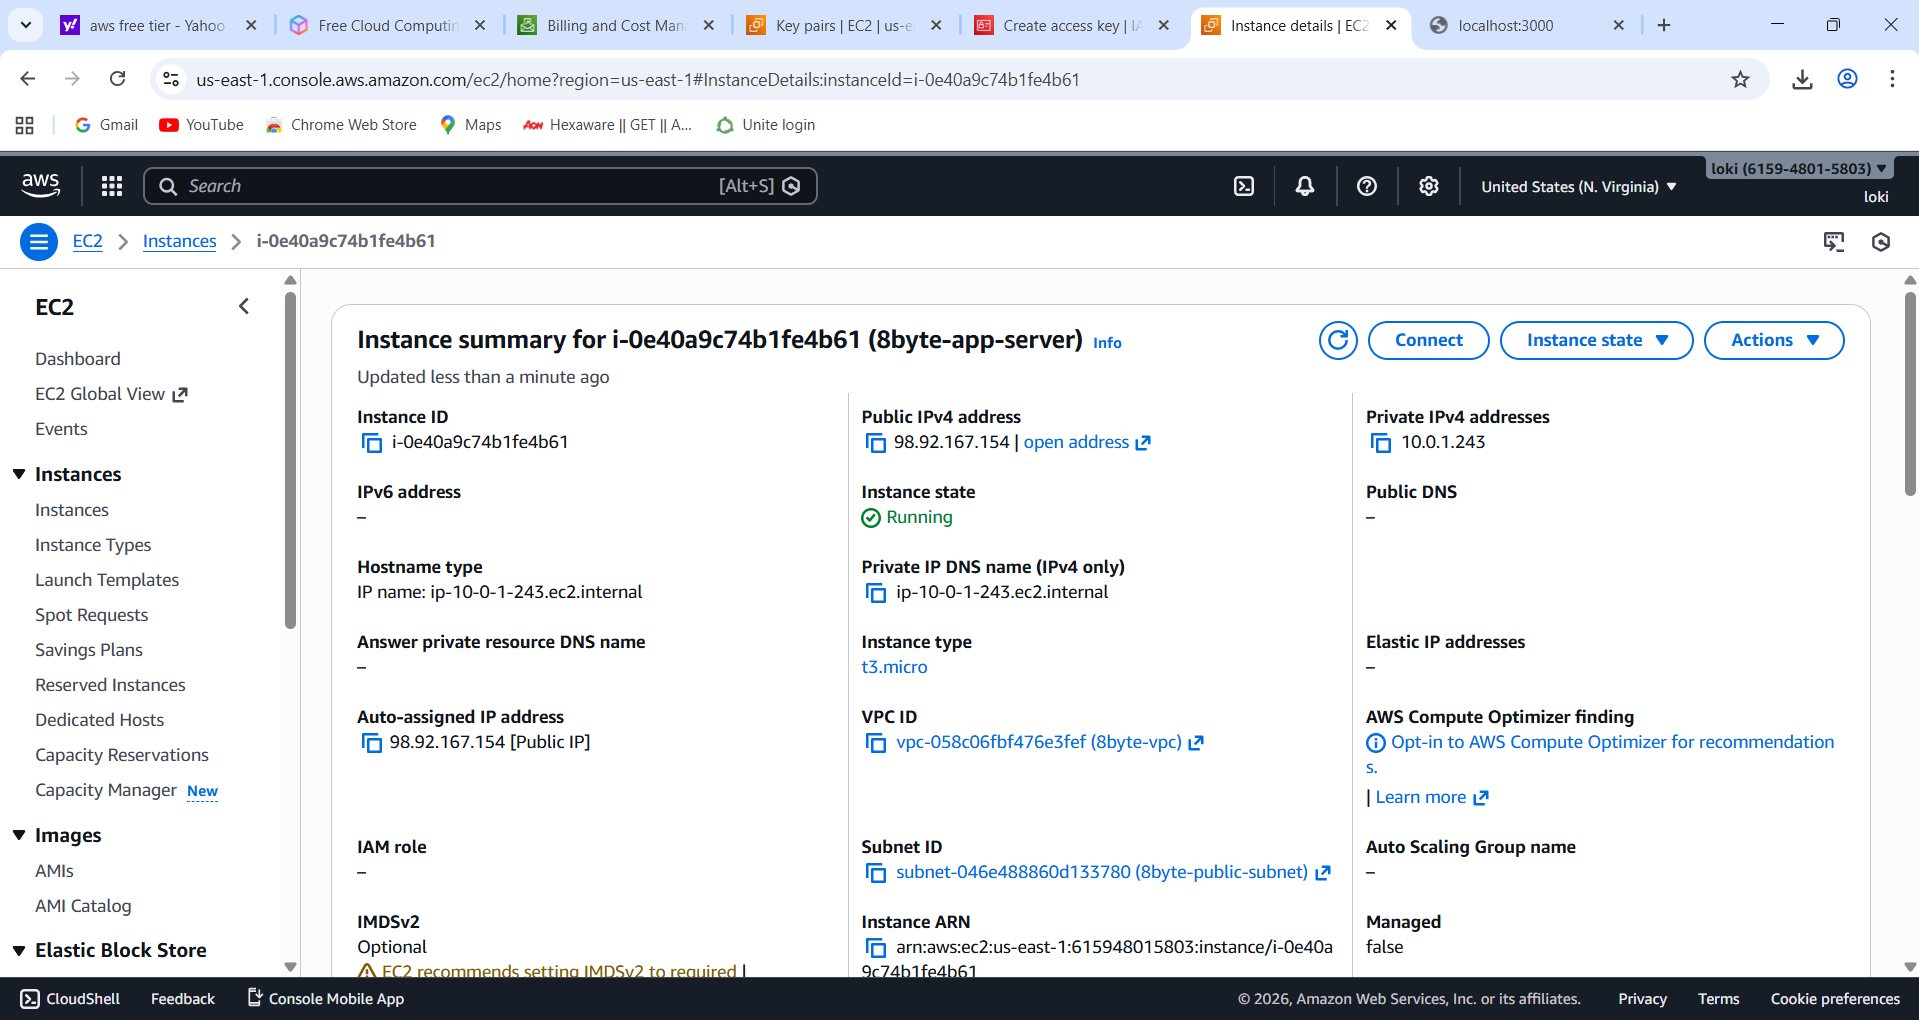
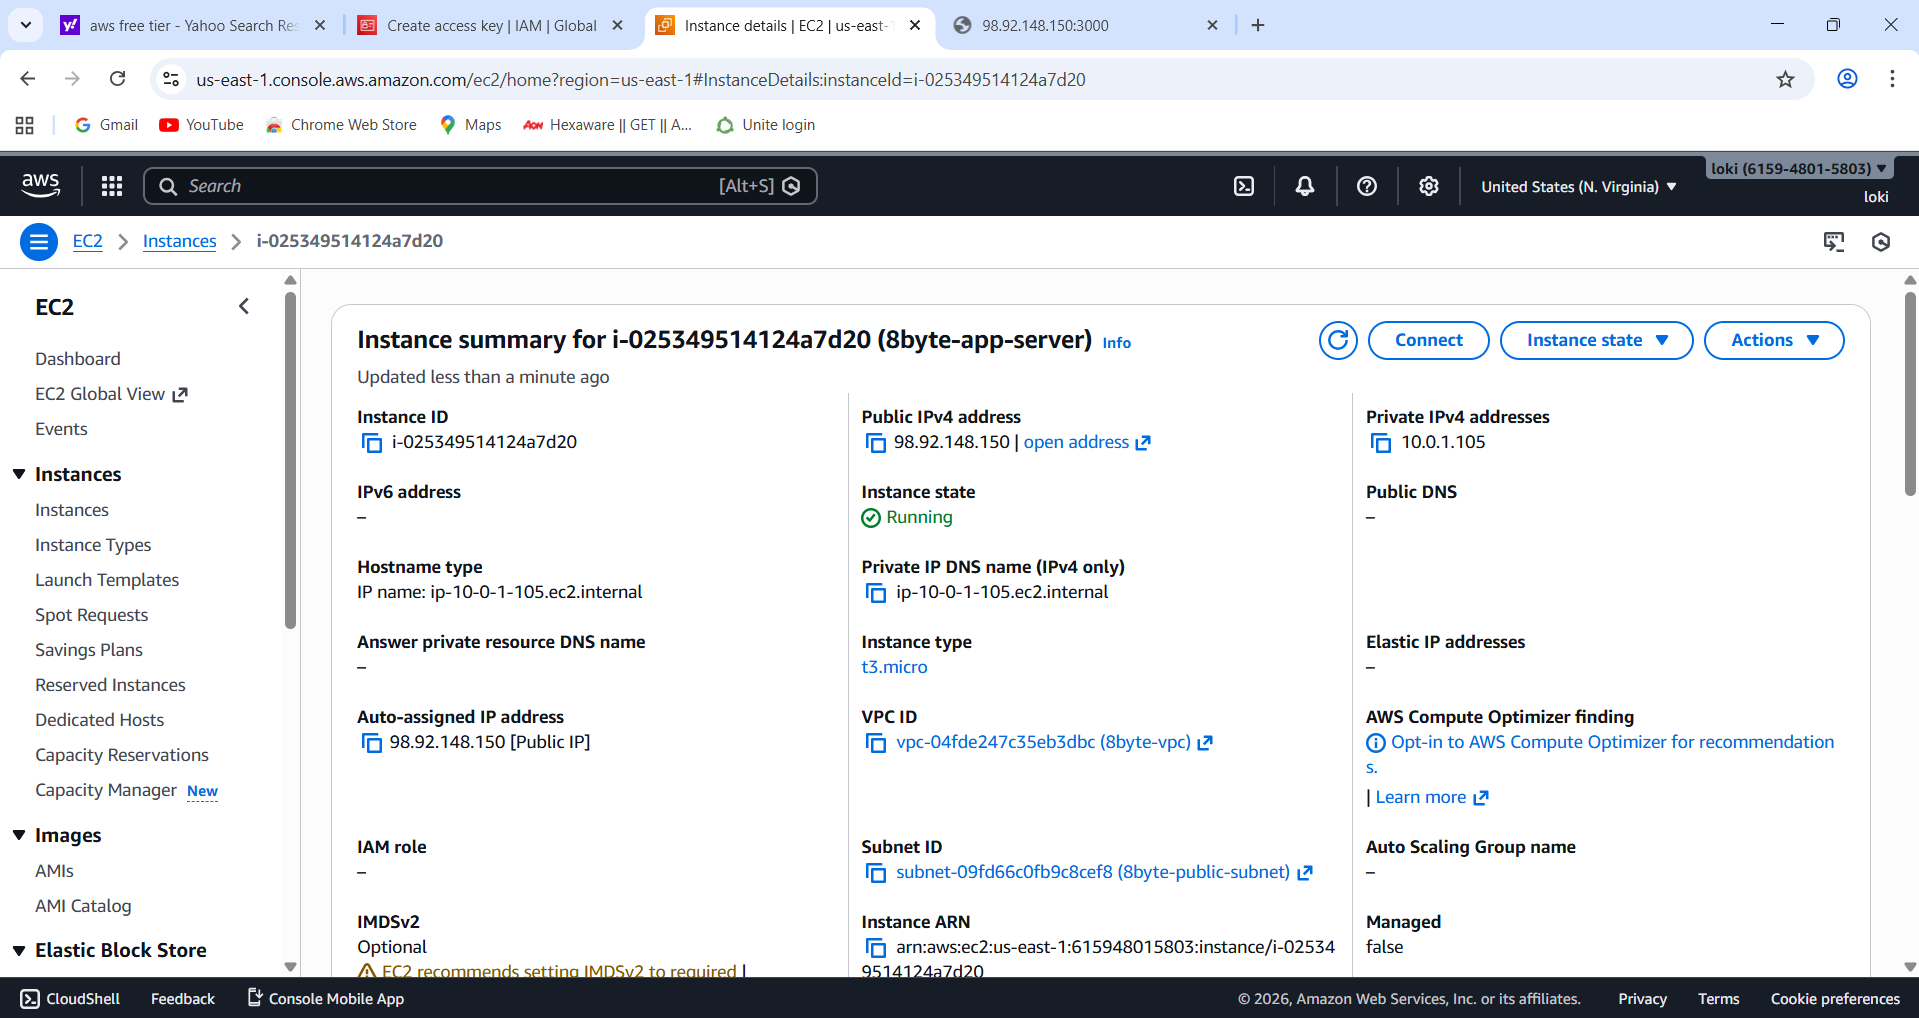
8commit

diff --git a/README.md b/README.md
@@ -11,6 +11,10 @@
 - [Infrastructure Lifecycle & Cost Management](#infrastructure-lifecycle--cost-management)
 - [Final Outcome](#final-outcome)
 
+## Public Application Access
+The deployed Node.js application is accessible at:  
+http://http://98.92.148.150/:3000
+
 ## Prerequisites
 
 Before running this project locally or provisioning infrastructure, ensure you have:
@@ -146,7 +150,8 @@ Internet gateway
 ![Internet Gateway](screenshots/igw.png) 
 Security groups
 ![Security Groups](screenshots/securitygrps.png)
-Route table and subnet association also done but that screenshot was missed
+Route table and subnet association
+![Route table](screenshots/routetable.png)
 
 ## Push the code to github
 create new git repository
